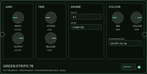
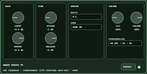
feat: Screenshots und Thumbnails an die helle MOD-GUI-Palette angepasst
- make_assets.py auf die neuen CSS-Farben umgestellt (Panel #1b2a20,
  Gruppen #0f1a12, Akzent #7dfab4, Text #f2fff6), damit Katalogbild und
  Thumbnails zur tatsaechlichen Oberflaeche passen
- Panel- und Gruppenrahmen getrennt (#74b189 / #55886a), Titel auf Weiss,
  Bypass-Text auf #e8fbee
- Veraltete Jack-Kreise am Bildrand entfernt: mod-ui zeichnet die
  Anschlusspfeile ausserhalb der 660-px-Box

Changed region(s): [[0.0, 0.0, 1.0, 1.0], [0.2993, 0.1351, 0.4082, 0.7027], [0.0816, 0.1351, 0.1633, 0.7027]]

diff --git a/tools/make_assets.py b/tools/make_assets.py
@@ -5,10 +5,10 @@ from PIL import Image, ImageDraw, ImageFont
 
 ROOT=Path(__file__).resolve().parents[1]
 
-BG=(11,19,13); EDGE=(61,92,71); GROUP=(9,16,11)
-LABEL=(217,240,219); MUTED=(194,222,201); DIM=(173,199,179); VALUE=(159,205,176)
-ACCENT=(95,212,148); KNOB=(44,51,44); KNOB_EDGE=(44,66,52); DARK=(16,26,18)
-BYPASS_BG=(18,33,26)
+BG=(27,42,32); EDGE=(116,177,137); GROUP=(15,26,18); GROUP_EDGE=(85,136,106)
+LABEL=(242,255,246); MUTED=(211,236,217); DIM=(195,221,205); VALUE=(189,233,204)
+ACCENT=(125,250,180); KNOB=(70,81,74); KNOB_EDGE=(110,168,130); DARK=(12,21,14)
+BYPASS_BG=(39,64,47); BYPASS_TEXT=(232,251,238); TITLE=(255,255,255)
 
 
 def font(size):
@@ -40,7 +40,7 @@ def main():
         d.rounded_rectangle((1,1,658,328),10,outline=EDGE,width=2)
         groups=[('GAIN',14,135),('TIME',161,135),('ENGINE',308,158),('COLOUR',478,168)]
         for name,x,w in groups:
-            d.rounded_rectangle((x,14,x+w,262),6,fill=GROUP,outline=EDGE)
+            d.rounded_rectangle((x,14,x+w,262),6,fill=GROUP,outline=GROUP_EDGE)
             d.text((x+10,22),name,fill=LABEL,font=f_group)
         # GAIN / TIME: stacked knobs with labels and values
         for gx,names in ((14,('INPUT','OUTPUT')),(161,('ATTACK','RELEASE'))):
@@ -62,16 +62,13 @@ def main():
         d.text((488,168),'OVERSAMPLING',fill=DIM,font=f_small)
         select_bar(d,488,180,636,204,'OS OFF / 2x / 4x')
         # footer
-        d.text((14,284),'GREEN STRIPE 76',fill=(238,252,240),font=f_title)
+        d.text((14,284),'GREEN STRIPE 76',fill=TITLE,font=f_title)
         d.text((14,308),'FET FEEDBACK - INDEPENDENT 1176-INSPIRED GRAY-BOX - '+variant.upper(),fill=DIM,font=f_small)
         d.rounded_rectangle((544,284,608,312),5,fill=BYPASS_BG,outline=EDGE)
-        d.text((554,292),'BYPASS',fill=MUTED,font=f_small)
+        d.text((554,292),'BYPASS',fill=BYPASS_TEXT,font=f_small)
         d.ellipse((618,293,630,305),fill=ACCENT)
-        # jacks on the edges
-        ys=(130,157) if variant=='stereo' else (143,)
-        for y in ys:
-            d.ellipse((1,y,21,y+20),fill=(6,10,7),outline=(84,117,95),width=2)
-            d.ellipse((639,y,659,y+20),fill=(6,10,7),outline=(84,117,95),width=2)
+        # No jacks are drawn: mod-ui renders the connect arrows outside the
+        # 660px box, so they are not part of this illustration.
         image.save(target/f'screenshot-{variant}.png')
         image.resize((147,74),Image.Resampling.LANCZOS).save(target/f'thumbnail-{variant}.png')
     print('Generated original MOD PNG assets (static illustration, not live-browser capture)')
